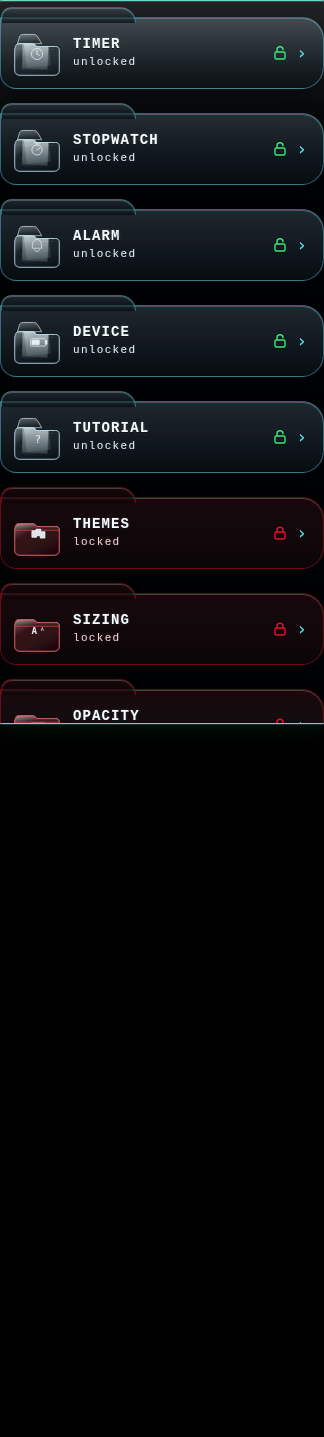
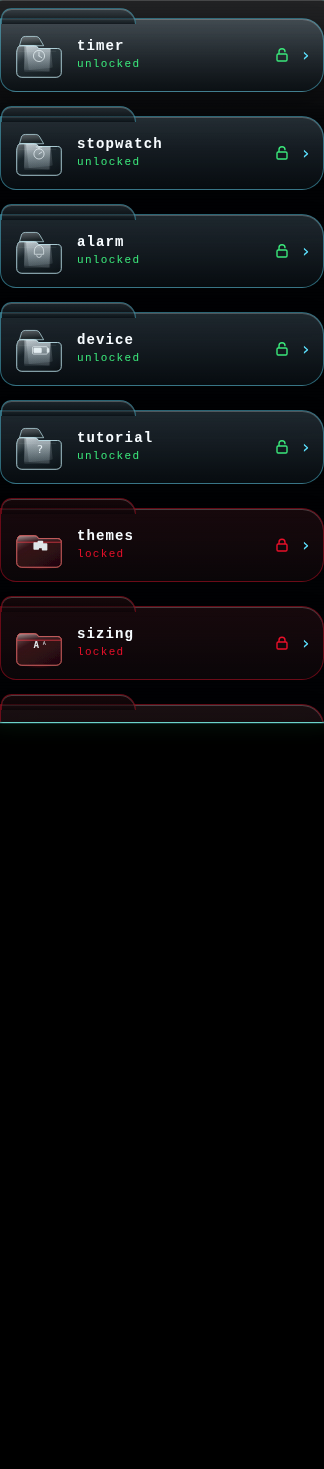
Improve Auric folder QA and FLIP performance

diff --git a/auric-web/src/styles/folders.css b/auric-web/src/styles/folders.css
@@ -6,6 +6,7 @@
 }
 
 .tx-folder-command {
+  position: relative;
   display: flex;
   align-items: center;
   justify-content: space-between;
@@ -13,7 +14,7 @@
   min-width: 0;
   max-width: 100%;
 }
-.tx-folder-command .tx-prompt { min-width: 0; }
+.tx-folder-command .tx-prompt { min-width: 0; max-width: calc(100% - 56px); }
 .tx-folder-menu-button,
 .tx-folder-sheet-close,
 .tx-folder-control-close,
@@ -32,7 +33,7 @@
   font: inherit;
   cursor: pointer;
 }
-.tx-folder-menu-button { flex: 0 0 44px; font-size: 24px; line-height: 1; }
+.tx-folder-menu-button { position: absolute; top: calc(50% - 24px); right: 0; flex: 0 0 48px; font-size: 24px; line-height: 1; }
 .tx-folder-menu-button:focus-visible,
 .tx-folder-sheet button:focus-visible,
 .tx-folder-sheet input:focus-visible,
@@ -44,28 +45,28 @@
 }
 
 .tx-folder-grid {
+  display: flex;
+  flex-direction: column;
+  width: 100%;
+  min-width: 0;
+  max-width: 100%;
+  scrollbar-width: thin;
+  scrollbar-color: color-mix(in oklab, var(--tx-cyan) 70%, transparent) transparent;
+}
+.tx-folder-grid[data-layout="single"] {
+  display: grid;
+  grid-template-columns: minmax(0, 1fr);
+}
+.tx-folder-grid[data-layout="grid"] {
   container-type: inline-size;
   display: grid;
   grid-template-columns: repeat(var(--tx-folder-columns, 1), minmax(0, 1fr));
   gap: 16px;
-  width: 100%;
-  min-width: 0;
-  max-width: 100%;
-  margin: 8px 0 16px;
-  /* Keep the existing 4px list inset for the legacy folder-list baseline. */
-  padding: 8px 0 4px;
-  list-style: none;
-  scrollbar-width: thin;
-  scrollbar-color: color-mix(in oklab, var(--tx-cyan) 70%, transparent) transparent;
 }
-.tx-folder-grid[data-layout="big"],
-.tx-folder-grid[data-layout="single"] { grid-template-columns: minmax(0, 1fr); }
-.tx-folder-grid[data-layout="grid"] { gap: 16px; }
 .tx-folder-grid > li {
   position: relative;
   min-width: 0;
   max-width: 100%;
-  padding-top: 8px;
 }
 .tx-folder-grid[data-layout="single"] > li { min-height: 100%; }
 .tx-folder-tile {
@@ -81,12 +82,15 @@
 }
 .tx-folder-row {
   grid-template-columns: minmax(24px, var(--tx-folder-icon-size, 56px)) minmax(0, 1fr) auto auto;
-  gap: 8px;
   min-width: 0;
   max-width: 100%;
   min-height: max(48px, var(--tx-folder-row-height, 72px));
-  margin-top: 0;
-  padding: 8px 16px 8px 8px;
+}
+.tx-folder-grid[data-layout="big"] .tx-folder-row {
+  grid-template-rows: minmax(0, max(
+    calc(var(--tx-folder-row-height, 72px) - 22px),
+    calc(var(--tx-folder-icon-size, 56px) * 0.9285714286)
+  ));
 }
 .tx-folder-icon {
   display: block;
@@ -124,17 +128,23 @@
 .tx-folder-row .tx-folder-name {
   font-size: var(--tx-folder-title-size, 14px);
   font-weight: 700;
-  text-transform: uppercase;
   color: #f7fcff;
-  text-shadow: 0 1px 0 rgba(2, 10, 12, 0.72), 0 0 3px rgba(230, 250, 255, 0.22);
 }
-.tx-folder-row .tx-folder-name.is-locked { color: #f7fcff; }
-.tx-folder-row .tx-folder-state {
-  font-size: 11px;
-  color: #e7f4f7;
-  text-shadow: 0 1px 0 rgba(2, 10, 12, 0.72), 0 0 3px rgba(230, 250, 255, 0.18);
+.tx-folder-grid[data-layout="grid"] .tx-folder-row,
+.tx-folder-grid[data-layout="single"] .tx-folder-row {
+  gap: 8px;
+  margin-top: 0;
+  padding: 8px 16px 8px 8px;
 }
-.tx-folder-row .tx-folder-state.is-off { color: #ffd0d4; }
+.tx-folder-grid[data-layout="grid"] .tx-folder-row .tx-folder-name,
+.tx-folder-grid[data-layout="single"] .tx-folder-row .tx-folder-name {
+  font-size: 16px;
+  text-transform: uppercase;
+}
+.tx-folder-grid[data-layout="grid"] .tx-folder-row .tx-folder-state,
+.tx-folder-grid[data-layout="single"] .tx-folder-row .tx-folder-state {
+  font-size: 16px;
+}
 .tx-folder-row .tx-folder-lockmark {
   position: static;
   inset: auto;
@@ -143,10 +153,10 @@
 .tx-folder-row .tx-folder-lockmark svg { display: block; max-width: 100%; }
 .tx-folder-chevron {
   overflow: visible;
-  font-size: 18px;
   line-height: 1;
 }
-.tx-folder-art.is-lit { animation: none; }
+.tx-folder-grid[data-layout="grid"] .tx-folder-art.is-lit,
+.tx-folder-grid[data-layout="single"] .tx-folder-art.is-lit { animation: none; }
 .tx-folder-art.is-etched {
   color: #eaf4f7;
   filter: none;
@@ -162,7 +172,6 @@
 .tx-folder-grid[data-layout="grid"] .tx-folder-row {
   position: relative;
   grid-template-columns: minmax(24px, var(--tx-folder-icon-size, 40px)) minmax(0, 1fr) 24px;
-  gap: 8px;
   padding: 8px;
   overflow: hidden;
 }
@@ -199,12 +208,16 @@
 .tx-folder-grid[data-layout="single"] .tx-folder-row .tx-folder-name { font-size: var(--tx-folder-title-size, 16px); }
 .tx-folder-grid .tx-folder-tile.is-etched .tx-folder-icon { background: none; box-shadow: none; }
 .tx-folder-grid .tx-folder-tile.is-etched .tx-folder-art { filter: none; animation: none; }
+.tx-folder-tile[data-flipping="true"] .tx-folder-row {
+  backdrop-filter: none !important;
+  -webkit-backdrop-filter: none !important;
+}
 
 @container (max-width: 599px) {
   .tx-folder-grid[data-layout="grid"] .tx-folder-row {
     grid-template-columns: minmax(24px, var(--tx-folder-icon-size, 32px)) minmax(0, 1fr) 24px;
   }
-  .tx-folder-grid[data-layout="grid"] .tx-folder-row .tx-folder-name { font-size: max(12px, var(--tx-folder-title-size, 12px)); }
+  .tx-folder-grid[data-layout="grid"] .tx-folder-row .tx-folder-name { font-size: 16px; }
 }
 
 .tx-folder-grid::-webkit-scrollbar { width: 8px; }
@@ -220,7 +233,7 @@
   gap: 16px;
   min-height: 56px;
 }
-.tx-folder-single-controls button { font-size: 22px; }
+.tx-folder-single-controls button { font-size: 24px; }
 .tx-folder-single-controls button:disabled { opacity: 0.42; }
 
 .tx-folder-size-popover,
@@ -251,7 +264,7 @@
   gap: 8px;
   min-width: 0;
   font-family: var(--font-type);
-  font-size: 12px;
+  font-size: 16px;
 }
 .tx-folder-size-popover label > span:first-child,
 .tx-folder-all-size > span { display: flex; justify-content: space-between; gap: 8px; }
@@ -275,9 +288,9 @@
   border-radius: 8px;
   background: var(--tx-bg);
   color: var(--tx-ink);
-  font: 700 14px var(--font-type);
+  font: 700 16px var(--font-type);
 }
-.tx-folder-rename [role="alert"] { font: 12px var(--font-type); color: var(--tx-red); }
+.tx-folder-rename [role="alert"] { font: 16px var(--font-type); color: var(--tx-red); }
 .tx-folder-rename[data-invalid="true"] { animation: tx-folder-shake 160ms linear 2; }
 @keyframes tx-folder-shake {
   25% { transform: translateX(-8px); }
@@ -321,8 +334,8 @@
   padding: 0;
   border: 0;
 }
-.tx-folder-layout-options legend { margin-bottom: 8px; font: 12px var(--font-type); }
-.tx-folder-layout-options button { min-width: 0; padding: 8px; font: 700 12px var(--font-type); }
+.tx-folder-layout-options legend { margin-bottom: 8px; font: 16px var(--font-type); }
+.tx-folder-layout-options button { min-width: 0; padding: 8px; font: 700 16px var(--font-type); }
 .tx-folder-layout-options button[aria-pressed="true"] {
   border-color: var(--tx-cyan);
   color: var(--tx-cyan);
@@ -339,7 +352,7 @@
   padding: 8px 0;
   border-top: 1px solid color-mix(in oklab, var(--tx-cyan) 20%, transparent);
 }
-.tx-folder-style-name { min-width: 0; overflow: hidden; text-overflow: ellipsis; white-space: nowrap; font: 12px var(--font-type); }
+.tx-folder-style-name { min-width: 0; overflow: hidden; text-overflow: ellipsis; white-space: nowrap; font: 16px var(--font-type); }
 .tx-folder-style-row select {
   width: 100%;
   min-height: 48px;
@@ -347,13 +360,15 @@
   border-radius: 8px;
   background: var(--tx-bg);
   color: var(--tx-ink);
-  font: 12px var(--font-type);
+  font: 16px var(--font-type);
 }
-.tx-folder-reset-name { padding: 8px; font-size: 11px; white-space: nowrap; }
+.tx-folder-reset-name { padding: 8px; font-size: 16px; white-space: nowrap; }
 
 .tx-root[data-glow="zero"] .tx-folder-art.is-lit { animation: none; }
 .tx-root[data-glow="zero"] .tx-folder-row .tx-folder-name,
 .tx-root[data-glow="zero"] .tx-folder-row .tx-folder-state { text-shadow: 0 1px 0 rgba(2, 10, 12, 0.72); }
+.tx-folder-grid .tx-folder-tile.is-etched .tx-folder-name,
+.tx-folder-grid .tx-folder-tile.is-etched .tx-folder-state { text-shadow: none; }
 
 @media (prefers-reduced-motion: reduce) {
   .tx-folder-grid *,

diff --git a/auric-web/src/components/auric/folder-grid.tsx b/auric-web/src/components/auric/folder-grid.tsx
@@ -127,21 +127,77 @@ export function FolderGrid({ preferences, beforeRects, onChangePreferences }: Fo
         button?.getAnimations().forEach((animation) => animation.cancel());
       }
       if (!reducedMotion()) {
+        const flips: { button: HTMLButtonElement; dx: number; dy: number }[] = [];
+        const scrollClip = gridRef.current?.closest<HTMLElement>(".tx-scroll")?.getBoundingClientRect();
+        const clip = {
+          left: Math.max(0, scrollClip?.left ?? 0),
+          top: Math.max(0, scrollClip?.top ?? 0),
+          right: Math.min(window.innerWidth, scrollClip?.right ?? window.innerWidth),
+          bottom: Math.min(window.innerHeight, scrollClip?.bottom ?? window.innerHeight),
+        };
         for (const [id, item] of tileRefs.current) {
           const button = item.querySelector<HTMLButtonElement>(".tx-folder-tile");
           const old = beforeRects.current.get(id);
           if (!button || !old) continue;
-          if (old.bottom <= 0 || old.top >= window.innerHeight) continue;
+          if (old.right <= clip.left || old.left >= clip.right || old.bottom <= clip.top || old.top >= clip.bottom) continue;
           const next = button.getBoundingClientRect();
-          if (next.bottom <= 0 || next.top >= window.innerHeight) continue;
+          if (
+            next.right <= clip.left ||
+            next.left >= clip.right ||
+            next.bottom <= clip.top ||
+            next.top >= clip.bottom
+          ) continue;
           const dx = old.left - next.left;
           const dy = old.top - next.top;
           if (dx || dy) {
-            button.animate(
-              [{ transform: `translate(${dx}px, ${dy}px)`, opacity: 0.78 }, { transform: "translate(0, 0)", opacity: 1 }],
-              { duration: 320, easing: "cubic-bezier(.2,.8,.2,1)" },
-            );
+            flips.push({ button, dx, dy });
           }
+        }
+        let restoreDecorations = () => {};
+        if (flips.length) {
+          const root = document.querySelector(".tx-root");
+          const competingAnimations = root?.getAnimations({ subtree: true }).filter((animation) =>
+            !flips.some(({ button }) => button.getAnimations().includes(animation)),
+          ) ?? [];
+          competingAnimations.forEach((animation) => animation.pause());
+          const rows = flips
+            .map(({ button }) => button.querySelector<HTMLElement>(".tx-folder-row"))
+            .filter((row): row is HTMLElement => row !== null);
+          const previousBackdrops = rows.map((row) => row.style.backdropFilter);
+          rows.forEach((row) => {
+            row.style.backdropFilter = "none";
+          });
+          restoreDecorations = () => {
+            rows.forEach((row, index) => {
+              row.style.backdropFilter = previousBackdrops[index];
+            });
+            competingAnimations.forEach((animation) => {
+              if (animation.playState === "paused") animation.play();
+            });
+          };
+        }
+        let remaining = flips.length;
+        for (const { button, dx, dy } of flips) {
+          button.dataset.flipping = "true";
+          const animation = button.animate(
+            [{ transform: `translate(${dx}px, ${dy}px)`, opacity: 0.78 }, { transform: "translate(0, 0)", opacity: 1 }],
+            { duration: 320, easing: "cubic-bezier(.2,.8,.2,1)" },
+          );
+          let released = false;
+          const releaseLayer = (defer = false) => {
+            if (released) return;
+            released = true;
+            const cleanup = () => {
+              delete button.dataset.flipping;
+              remaining -= 1;
+              if (remaining === 0) restoreDecorations();
+            };
+            if (defer) window.requestAnimationFrame(() => window.requestAnimationFrame(cleanup));
+            else cleanup();
+          };
+          animation.finished.then(() => releaseLayer(true), () => releaseLayer());
+          animation.addEventListener("finish", () => releaseLayer(true), { once: true });
+          animation.addEventListener("cancel", () => releaseLayer(), { once: true });
         }
       }
     }
